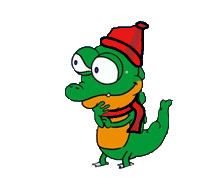
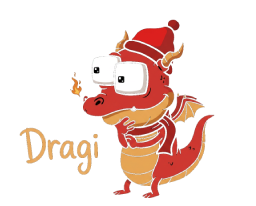
changes

Changed region(s): [[0.2596, 0.0847, 0.8365, 0.9605], [0.0577, 0.6215, 0.4038, 0.8475]]

diff --git a/src/systems/particles/ParticleFxManager.ts b/src/systems/particles/ParticleFxManager.ts
@@ -1,5 +1,5 @@
 import { Container, Particle, ParticleContainer, type Texture } from 'pixi.js';
-import { DESIGN } from '../../core/DesignSpace';
+import { GROUND_SURFACE_Y } from '../../core/DesignSpace';
 import type { EffectQuality } from '../../core/GraphicsQuality';
 import { loadTexture } from '../../data/AssetLoader';
 import type { CombatEntity } from '../../entities/CombatEntity';
@@ -14,6 +14,16 @@ const FIRE_FRAME_COUNT = 4;
 const CLOUD_FRAME_START = 4;
 const CLOUD_FRAME_COUNT = 8;
 const BLOOD_PARTICLE_SCALE = 2;
+const BLOOD_SCALE_MIN = 0.07 * BLOOD_PARTICLE_SCALE;
+const BLOOD_SCALE_MAX = 0.22 * BLOOD_PARTICLE_SCALE;
+const BLOOD_GROW_MAX = 0.022 * BLOOD_PARTICLE_SCALE;
+
+export interface BloodSpawnArea {
+  cx: number;
+  cy: number;
+  width: number;
+  height: number;
+}
 
 export interface CivilianBloodOpts {
   damage: number;
@@ -21,19 +31,20 @@ export interface CivilianBloodOpts {
   explosionRange?: number;
   /** Cheat / test tier (0–6) — bypasses global budget and uses dramatic per-tier counts. */
   intensityTier?: number;
+  /** Random start position within this rectangle (e.g. human sprite bounds). */
+  spawnArea?: BloodSpawnArea;
 }
 
 /** Particle count per cheat tier — wide spread so each step is obvious. */
 const CHEAT_BLOOD_COUNTS: Record<EffectQuality, number[]> = {
   low: [0, 0, 0, 0, 0, 0, 0],
-  normal: [5, 16, 38, 80, 140, 220, 320],
-  high: [8, 24, 58, 120, 210, 340, 480],
-  ultra: [10, 32, 78, 160, 280, 450, 650],
+  normal: [6, 22, 60, 140, 260, 420, 600],
+  high: [10, 34, 90, 200, 360, 580, 820],
+  ultra: [12, 44, 115, 260, 460, 740, 1050],
 };
 
-const CHEAT_BLOOD_SCALE_MUL = [1, 1.15, 1.35, 1.6, 2, 2.6, 3.4];
-const CHEAT_BLOOD_SPEED_MUL = [1, 1.2, 1.45, 1.75, 2.2, 2.9, 3.8];
-const CHEAT_BLOOD_SPREAD_MUL = [1, 1.2, 1.5, 1.9, 2.4, 3.2, 4.5];
+const CHEAT_BLOOD_SPEED_MUL = [1, 1.3, 1.6, 2, 2.6, 3.4, 4.5];
+const CHEAT_BLOOD_SPREAD_MUL = [1, 1.4, 1.8, 2.3, 3, 3.8, 5];
 
 type PoolId = 'trailSmoke' | 'fxSmoke' | 'fxFire' | 'fxBlood';
 
@@ -357,7 +368,7 @@ export class ParticleFxManager {
       this.ringSmoke(x, y, radius * 0.7, scale * mul, 0xffaa66, 8);
       this.groundFires.push({
         x,
-        y: DESIGN.groundY - 4,
+        y: GROUND_SURFACE_Y - 4,
         life: 2.4 + Math.random() * 0.8,
         cooldown: 0,
         radius: radius * 0.55,
@@ -381,66 +392,98 @@ export class ParticleFxManager {
     const count = this.bloodParticleCount(opts, profile);
     const allowOverflow = count > 24;
     const extreme = cheatMode ? tierIndex >= 4 : count >= 60;
-    const scaleMul = cheatMode ? (CHEAT_BLOOD_SCALE_MUL[tierIndex] ?? 1) : 1;
     const speedMul = cheatMode ? (CHEAT_BLOOD_SPEED_MUL[tierIndex] ?? 1) : 1;
     const spreadMul = cheatMode ? (CHEAT_BLOOD_SPREAD_MUL[tierIndex] ?? 1) : 1;
 
     for (let i = 0; i < count; i++) {
       if (!cheatMode && !this.canSpawnBlood(allowOverflow, count)) break;
 
-      const angle = Math.random() * Math.PI * 2;
       const speed =
-        ((extreme ? 70 : 40) +
-          Math.random() * (extreme ? 160 : 90) +
-          Math.min(opts.damage, 800) * 0.04) *
+        ((extreme ? 95 : 48) +
+          Math.random() * (extreme ? 210 : 105) +
+          Math.min(opts.damage, 800) * 0.035) *
         speedMul;
-      const upward = extreme ? 0.35 + Math.random() * 0.55 : 0.15 + Math.random() * 0.45;
-      const spreadX = (extreme ? 28 : 14) * spreadMul;
-      const spreadY = (extreme ? 20 : 10) * spreadMul;
+      const { x: px, y: py } = this.randomBloodSpawnPoint(x, y, opts.spawnArea);
+      const { vx, vy } = this.bloodBurstVelocity(speed, spreadMul, extreme);
 
       this.pushBlood(
         {
-          x: x + (Math.random() - 0.5) * spreadX,
-          y: y + (Math.random() - 0.5) * spreadY,
-          vx: Math.cos(angle) * speed * (1 - upward * 0.35),
-          vy: Math.sin(angle) * speed - (40 + Math.random() * (extreme ? 120 : 60)) * speedMul,
-          life: (extreme ? 0.55 : 0.35) + Math.random() * (extreme ? 0.7 : 0.45),
-          scale:
-            ((extreme ? 0.14 : 0.08) + Math.random() * (extreme ? 0.2 : 0.12)) *
-            BLOOD_PARTICLE_SCALE *
-            scaleMul,
-          grow: (extreme ? 0.04 : 0.02) * BLOOD_PARTICLE_SCALE * scaleMul,
+          x: px,
+          y: py,
+          vx,
+          vy,
+          life: (extreme ? 0.6 : 0.38) + Math.random() * (extreme ? 0.75 : 0.48),
+          scale: this.bloodParticleSize(),
+          grow: this.bloodParticleGrow(),
           tint: this.pickBloodTint(),
           peakAlpha: 0.82 + Math.random() * 0.15,
-          gravity: (extreme ? 420 : 300) * (cheatMode ? 0.85 + tierIndex * 0.05 : 1),
+          gravity: extreme ? 250 : 290,
         },
         cheatMode,
       );
     }
 
     if (extreme) {
-      const extra = Math.round(count * (cheatMode ? 0.45 : 0.35));
+      const extra = Math.round(count * (cheatMode ? 0.5 : 0.38));
       for (let i = 0; i < extra; i++) {
         if (!cheatMode && !this.canSpawnBlood(true, count)) break;
-        const angle = Math.random() * Math.PI * 2;
-        const dist = (8 + Math.random() * 48) * spreadMul;
+        const popSpeed = (32 + Math.random() * 55) * speedMul;
+        const { x: px, y: py } = this.randomBloodSpawnPoint(x, y, opts.spawnArea);
         this.pushBlood(
           {
-            x: x + Math.cos(angle) * dist,
-            y: y + Math.sin(angle) * dist * 0.25,
-            vx: Math.cos(angle) * (20 + Math.random() * 50) * speedMul,
-            vy: (-10 - Math.random() * 40) * speedMul,
-            life: 0.25 + Math.random() * 0.35,
-            scale: (0.06 + Math.random() * 0.1) * BLOOD_PARTICLE_SCALE * scaleMul,
-            grow: 0.03 * BLOOD_PARTICLE_SCALE * scaleMul,
+            x: px,
+            y: py,
+            vx: (Math.random() - 0.5) * 95 * spreadMul,
+            vy: -popSpeed,
+            life: 0.28 + Math.random() * 0.38,
+            scale: this.bloodParticleSize() * 0.85,
+            grow: this.bloodParticleGrow() * 0.8,
             tint: this.pickBloodTint(),
             peakAlpha: 0.75,
-            gravity: 360,
+            gravity: 240,
           },
           cheatMode,
         );
       }
     }
+  }
+
+  private bloodParticleSize(): number {
+    const raw = BLOOD_SCALE_MIN + Math.random() * (BLOOD_SCALE_MAX - BLOOD_SCALE_MIN);
+    return Math.min(raw, BLOOD_SCALE_MAX);
+  }
+
+  private bloodParticleGrow(): number {
+    return BLOOD_GROW_MAX * (0.6 + Math.random() * 0.5);
+  }
+
+  private randomBloodSpawnPoint(
+    x: number,
+    y: number,
+    area?: BloodSpawnArea,
+  ): { x: number; y: number } {
+    if (!area) return { x, y };
+    return {
+      x: area.cx + (Math.random() - 0.5) * area.width,
+      y: area.cy + (Math.random() - 0.5) * area.height,
+    };
+  }
+
+  /** Upward spray with generous left/right spread (screen Y grows downward). */
+  private bloodBurstVelocity(
+    speed: number,
+    spreadMul: number,
+    extreme: boolean,
+  ): { vx: number; vy: number } {
+    const spread = (extreme ? 1.9 : 1.35) * spreadMul;
+    const angle = -Math.PI / 2 + (Math.random() - 0.5) * spread;
+    const lift = speed * (0.95 + Math.random() * 0.5);
+    const horizontal = 0.62 + Math.random() * 0.45;
+    const upwardBoost = extreme ? 1.22 : 1.08;
+    return {
+      vx: Math.cos(angle) * lift * horizontal,
+      vy: Math.sin(angle) * lift * upwardBoost,
+    };
   }
 
   private bloodParticleCount(opts: CivilianBloodOpts, profile: QualityProfile): number {
@@ -453,17 +496,17 @@ export class ParticleFxManager {
     const qualityMul =
       profile.budget >= 320 ? 2.6 : profile.budget >= 240 ? 1.85 : profile.budget >= 130 ? 1 : 0.6;
 
-    let base = 3;
-    if (damage >= 2000) base = 72;
-    else if (damage >= 800) base = 48;
-    else if (damage >= 300) base = 30;
-    else if (damage >= 120) base = 18;
-    else if (damage >= 50) base = 10;
-    else if (damage >= 20) base = 6;
+    let base = 4;
+    if (damage >= 2000) base = 110;
+    else if (damage >= 800) base = 72;
+    else if (damage >= 300) base = 45;
+    else if (damage >= 120) base = 26;
+    else if (damage >= 50) base = 14;
+    else if (damage >= 20) base = 8;
 
-    if (explosionType === 3) base *= 2.8;
-    else if (explosionType === 4) base *= 2;
-    else if (explosionType === 2) base *= 1.4;
+    if (explosionType === 3) base *= 3.2;
+    else if (explosionType === 4) base *= 2.2;
+    else if (explosionType === 2) base *= 1.5;
 
     if (explosionRange >= 140) base *= 1.5;
     else if (explosionRange >= 80) base *= 1.2;
@@ -872,10 +915,17 @@ export class ParticleFxManager {
 
         const t = 1 - entry.life / entry.maxLife;
         const fade = (1 - t) ** 1.35;
+        entry.vy += entry.gravity * dt;
         entry.particle.x += entry.vx * dt;
         entry.particle.y += entry.vy * dt;
         entry.particle.rotation += entry.spin * dt;
-        entry.vy += entry.gravity * dt;
+
+        if (this.particleHitGround(entry)) {
+          this.recycle(entry);
+          pool.live.splice(i, 1);
+          continue;
+        }
+
         const scale = entry.baseScale + entry.grow * t;
         entry.particle.scaleX = scale;
         entry.particle.scaleY = scale;
@@ -884,6 +934,15 @@ export class ParticleFxManager {
         if (entry.gravity === 0) entry.vy *= 1 - dt * 1.8;
       }
     }
+  }
+
+  /** Blood and falling fire/smoke die at the ground surface instead of sinking through. */
+  private particleHitGround(entry: LiveParticle): boolean {
+    if (entry.particle.y < GROUND_SURFACE_Y) return false;
+    if (entry.pool === 'fxBlood') return true;
+    if (entry.pool === 'fxFire' && entry.gravity > 0) return true;
+    if (entry.pool === 'fxSmoke' && entry.gravity > 0) return true;
+    return false;
   }
 
   private hasBudget(): boolean {

diff --git a/src/scenes/GameScene.ts b/src/scenes/GameScene.ts
@@ -96,6 +96,8 @@ export class GameScene extends Container implements MenuActionsHost {
   private nightVisionLayer = new NightVisionLayer();
   private entityLayer = new Container();
   private fxLayer = new Container();
+  private groundLayer = new Container();
+  private groundEntityLayer = new Container();
   private uiLayer = new Container();
   private entities = new EntityController();
   private explosionManager = new ExplosionManager();
@@ -151,12 +153,16 @@ export class GameScene extends Container implements MenuActionsHost {
 
   constructor() {
     super();
+    this.groundLayer.eventMode = 'none';
+    this.groundEntityLayer.eventMode = 'none';
     this.addChild(
       this.bgLayer,
       this.weatherLayer,
       this.trailLayer,
       this.entityLayer,
       this.fxLayer,
+      this.groundLayer,
+      this.groundEntityLayer,
       this.nightVisionLayer,
       this.uiLayer,
     );
@@ -468,12 +474,13 @@ export class GameScene extends Container implements MenuActionsHost {
     bg.height = DESIGN.height;
     this.bgLayer.addChild(bg);
 
+    this.groundLayer.removeChildren();
     const groundTex = await loadTexture(assets.ground ?? 'assets/gfx/backgrounds/ground.png');
     const ground = new Sprite(groundTex);
     ground.width = DESIGN.width;
     ground.height = DESIGN.groundHeight;
     ground.y = DESIGN.groundY;
-    this.bgLayer.addChild(ground);
+    this.groundLayer.addChild(ground);
   }
 
   private async setupPlayers(pack: LevelPack): Promise<void> {
@@ -496,14 +503,14 @@ export class GameScene extends Container implements MenuActionsHost {
 
       for (const s of [slot.leftBase, slot.rightBase]) {
         s.anchor.set(0.5, 1);
-        if (!s.parent) this.entityLayer.addChild(s);
+        if (!s.parent) this.groundEntityLayer.addChild(s);
       }
       slot.leftBase.scale.set(1, 1);
       slot.rightBase.scale.set(-1, 1);
 
       for (const s of [slot.leftCannon, slot.rightCannon]) {
         s.anchor.set(pivot.x, pivot.y);
-        if (!s.parent) this.entityLayer.addChild(s);
+        if (!s.parent) this.groundEntityLayer.addChild(s);
       }
       slot.leftCannon.scale.set(1, 1);
       slot.rightCannon.scale.set(-1, 1);
@@ -561,7 +568,7 @@ export class GameScene extends Container implements MenuActionsHost {
     const sprite = new Sprite(Texture.EMPTY);
     this.placeHuman(sprite, x, dir);
     sprite.visible = true;
-    this.entityLayer.addChild(sprite);
+    this.groundEntityLayer.addChild(sprite);
 
     this.civilians.push({
       id: GameScene.nextCivilianId++,
@@ -1138,6 +1145,17 @@ export class GameScene extends Container implements MenuActionsHost {
     }
   }
 
+  private civilianBloodSpawnArea(c: Civilian) {
+    const h = c.sprite.height;
+    const w = c.sprite.width;
+    return {
+      cx: c.x,
+      cy: GROUND_FEET_Y - h * 0.52,
+      width: w * 0.94,
+      height: h * 0.9,
+    };
+  }
+
   private killCivilian(
     c: Civilian,
     killingDamage = 0,
@@ -1145,11 +1163,11 @@ export class GameScene extends Container implements MenuActionsHost {
   ): void {
     c.alive = false;
     c.sprite.visible = false;
-    const bloodY = GROUND_FEET_Y - c.sprite.height * 0.55;
-    this.particleFx.spawnCivilianBlood(c.x, bloodY, {
+    this.particleFx.spawnCivilianBlood(c.x, 0, {
       damage: killingDamage,
       explosionType: source?.explosionType,
       explosionRange: source?.explosionRange,
+      spawnArea: this.civilianBloodSpawnArea(c),
     });
     this.levelAudio.playCivilianDeath();
     this.session.resetHumanPrice();
@@ -1372,12 +1390,12 @@ export class GameScene extends Container implements MenuActionsHost {
       if (!c.alive) continue;
       c.alive = false;
       c.sprite.visible = false;
-      const bloodY = GROUND_FEET_Y - c.sprite.height * 0.55;
-      this.particleFx.spawnCivilianBlood(c.x, bloodY, {
+      this.particleFx.spawnCivilianBlood(c.x, 0, {
         damage: tier.damage,
         explosionType: tier.explosionType,
         explosionRange: tier.explosionRange,
         intensityTier: tierIndex,
+        spawnArea: this.civilianBloodSpawnArea(c),
       });
       killed += 1;
     }

diff --git a/src/core/DesignSpace.ts b/src/core/DesignSpace.ts
@@ -8,6 +8,9 @@ export const DESIGN = {
   /** Top edge of the ground HUD strip — units stand here (dune line in background). */
   groundY: 1080 - V1_GROUND_HEIGHT * (1080 / 768),
 } as const;
+
+/** Effects and physics stop at this Y (top of ground strip). */
+export const GROUND_SURFACE_Y = DESIGN.groundY;
 export const TOWER = {
   baseLeft: 60,
   baseRight: 1860,